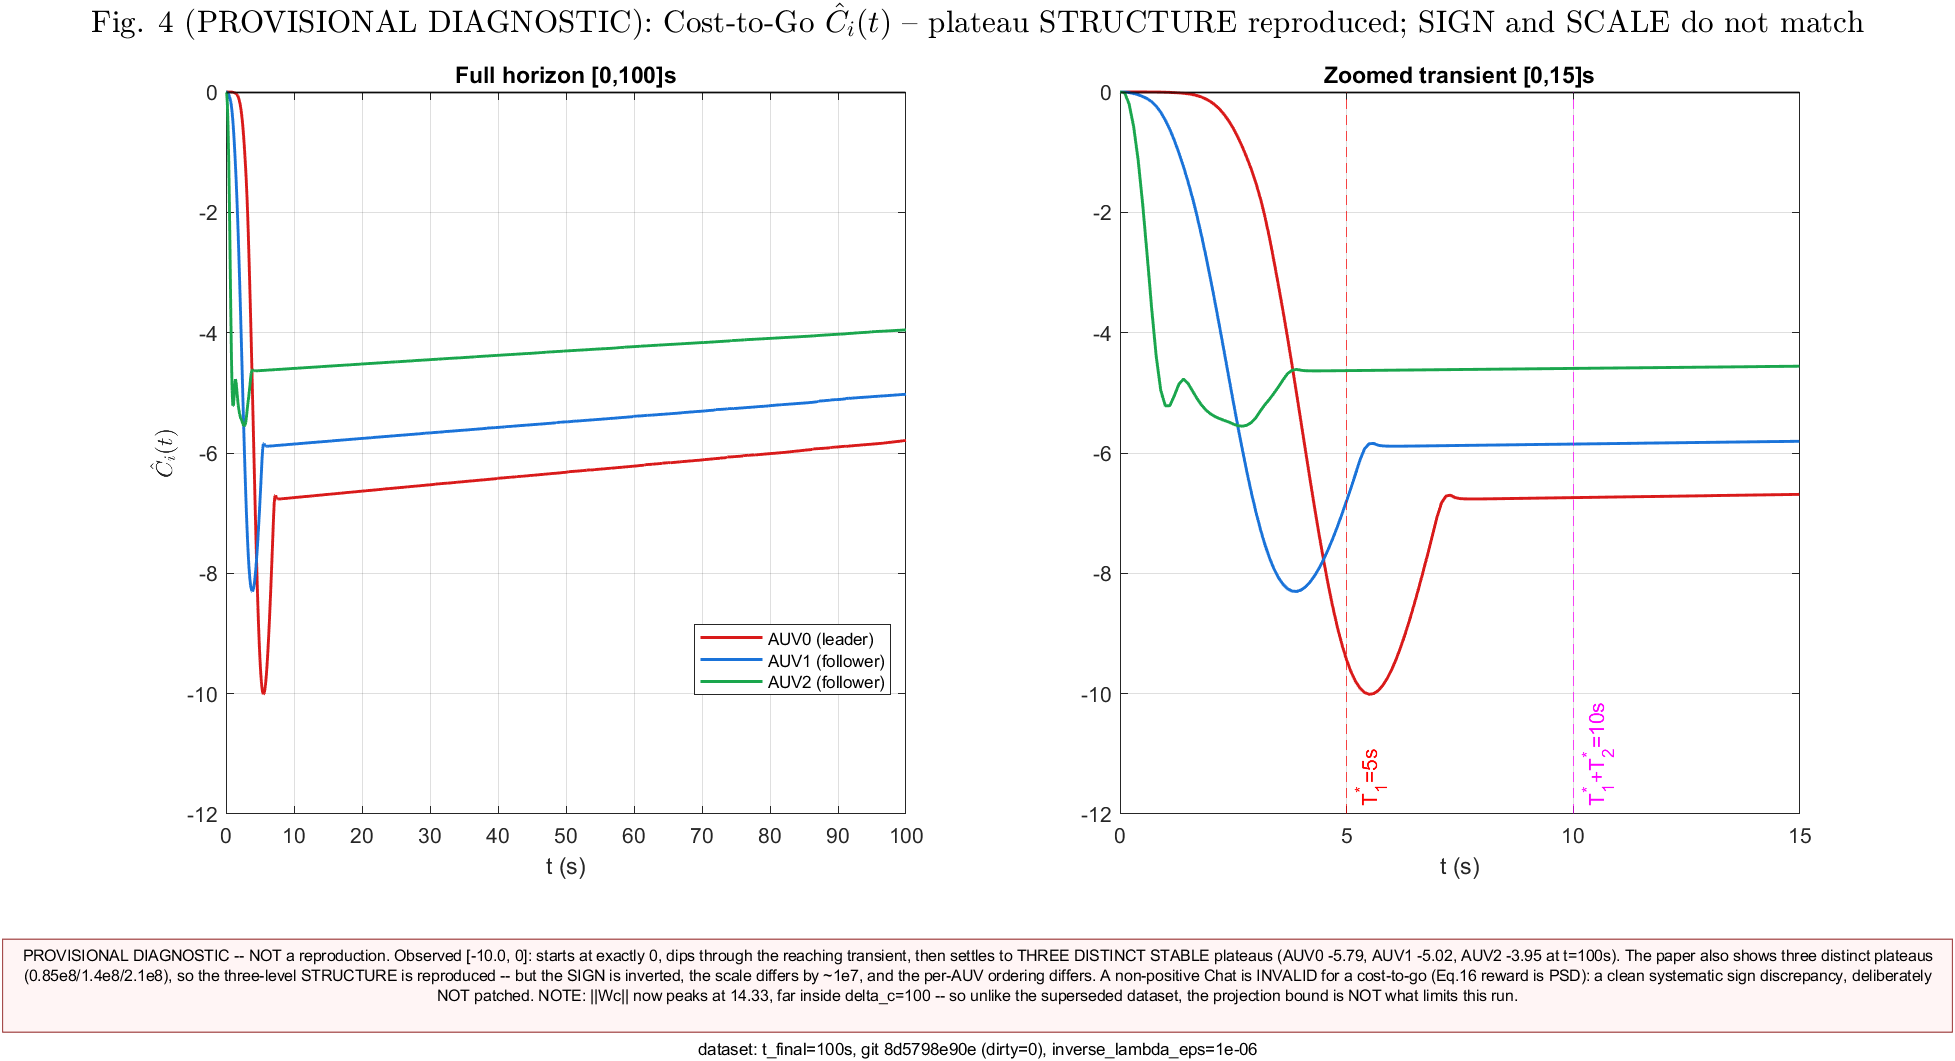
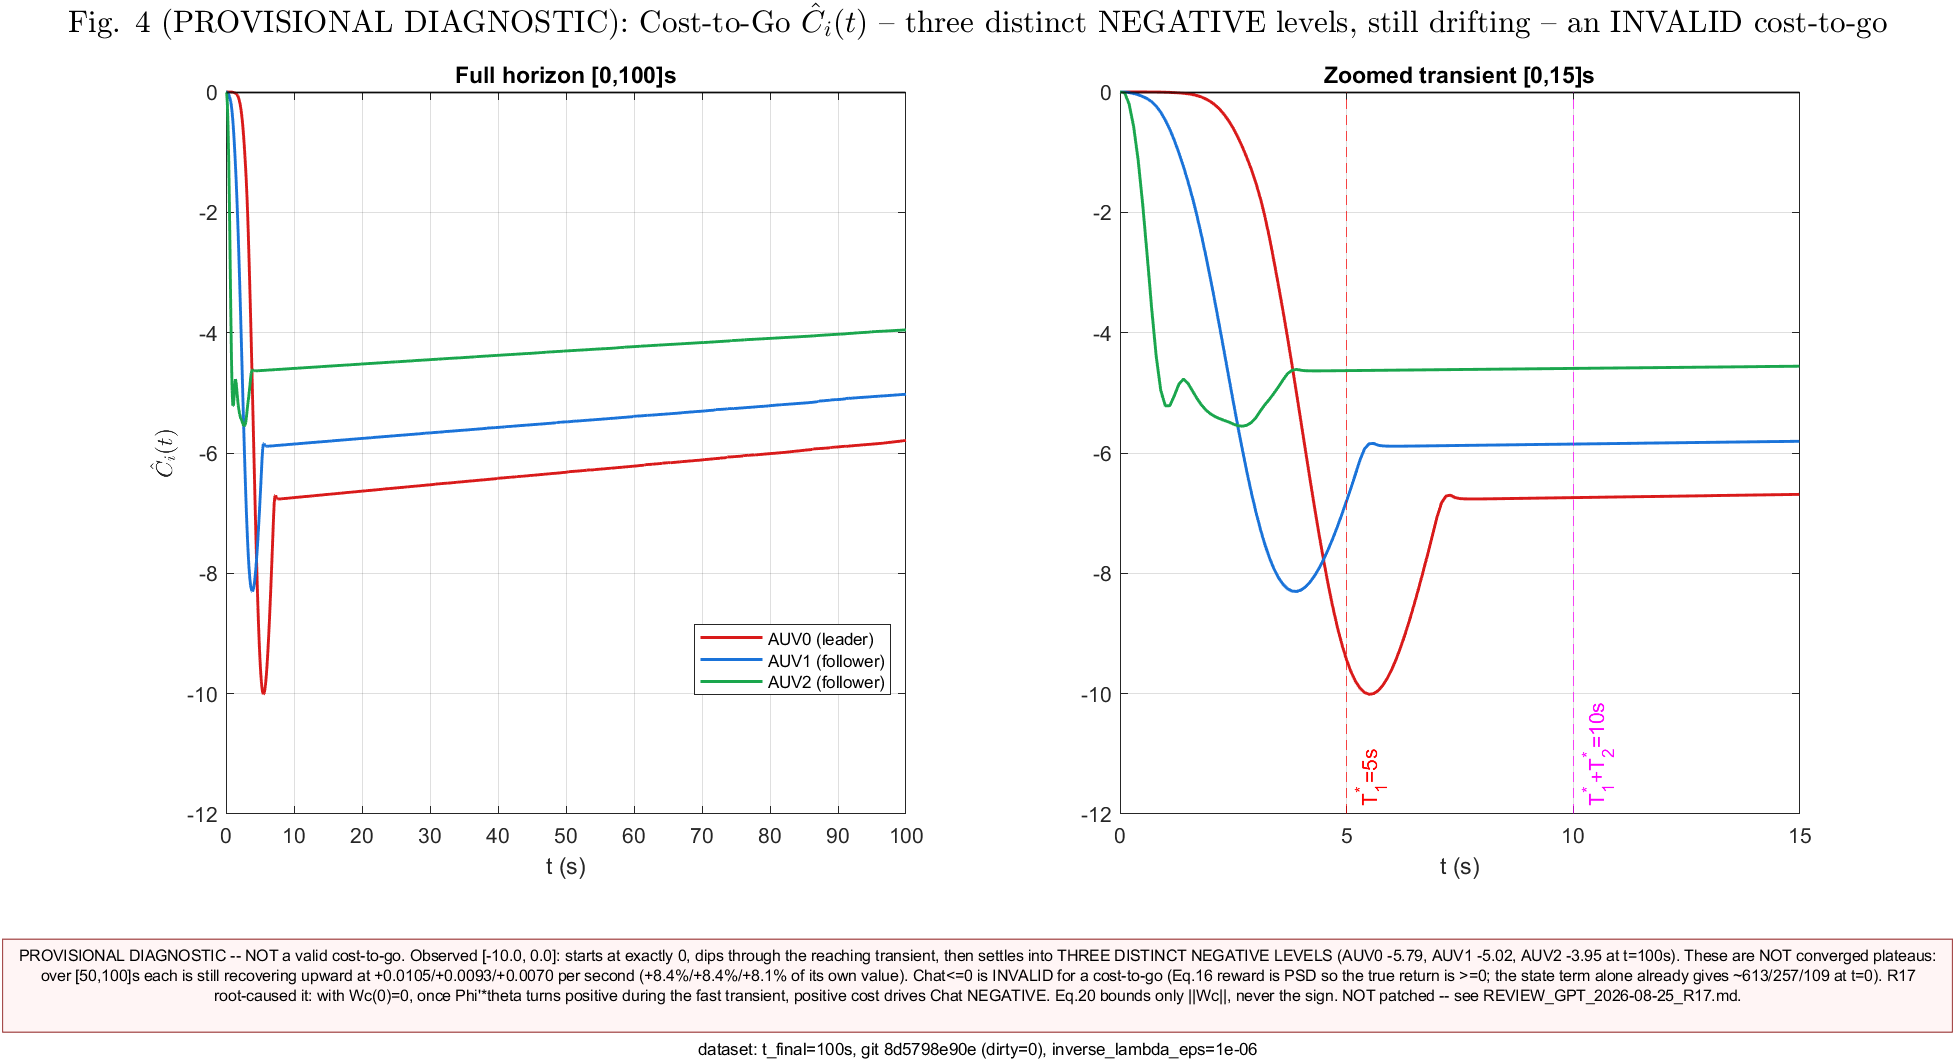
R17: correct the false 'stable plateaus' claim, add cost-to-go validity diagnostic
Two items, both requested after R17 root-caused Fig. 4's negative cost-to-go.

(1) CORRECTING A CLAIM I MADE THAT WAS WRONG. The Fig. 4 caption and header
said the curves settle to 'THREE DISTINCT, STABLE plateaus'. Measured from the
committed artifact they are still recovering upward over [50,100]s at
+0.010465 / +0.009315 / +0.006987 per second -- about +8.4% / +8.4% / +8.1% of
their own values across those 50 s. They are slowly recovering negative tails,
not converged plateaus. I had inferred stability from how flat the curves look
on a [-12,0] full-horizon axis instead of measuring the slope. My numbers
reproduce R17's exactly. The caption now COMPUTES the slope from the data, so
the claim cannot drift again if the dataset is regenerated.

The header also now carries R17's mechanism rather than just calling the sign
'a discrepancy': Phi'*theta = -||theta||^2/lambda + theta'*thetadot, and during
the fast transient the basis-motion term exceeds ||theta||^2/lambda so
Phi'*theta turns positive; with Wc(0)=0 and c_e(0)=r(0)>0 that makes
dChat/dt(0) negative, so the positive immediate cost drives Chat down. Eq.(20)
bounds only ||Wc||, never the sign, and ||Wc||=14.33 is far inside delta_c=100,
so projection is not involved.

(2) NEW DIAGNOSTIC diagnose_stepS2_cost_to_go_validity.m answers the question
the existing critic oracles never ask -- does Chat approximate the Eq.(15)
return of the trajectory actually executed? verify_step34/36/37 only check
[…]

Changed region(s): [[0.0, 0.8709, 0.9985, 0.9642], [0.0312, 0.0, 0.9673, 0.0311]]

diff --git a/paper1608/verify/diagnose_stepS2_cost_to_go_validity.m b/paper1608/verify/diagnose_stepS2_cost_to_go_validity.m
@@ -1,0 +1,153 @@
+function diagnose_stepS2_cost_to_go_validity()
+    % DIAGNOSE_STEPS2_COST_TO_GO_VALIDITY
+    % Read-only value-function validation for Fig. 4, requested by
+    % REVIEW_GPT_2026-08-25_R17.md items 1-3. Answers a question the existing
+    % critic oracles never ask: does Chat actually approximate the Eq. (15)
+    % return of the trajectory that was executed?
+    %
+    % verify_step34/36/37 only check that the critic output is finite, that
+    % the Bellman error has the right shape, and that the update equals its
+    % own algebraic expression. None of them compares Chat to anything.
+    %
+    % METHOD
+    %   Recompute, at every stored sample of the committed Phase-C run:
+    %     r(t_k)   = chi'*B*chi + tau_act'*R*tau_act        (Eq. 16, saturated
+    %                input per the supervisor determination)
+    %     Chat(t_k)= Wc(t_k)' * theta_c(chi(t_k))           (Eq. 14)
+    %   then backward-accumulate the discounted return (Eq. 15):
+    %     C_trunc(t_k) = sum_{l>=k} exp(-(t_l-t_k)/lambda) * r(t_l) * dt
+    %
+    %   Because r >= 0, truncating at T=100 s can only UNDER-estimate the true
+    %   return, so C_trunc is a strict LOWER BOUND on Eq. (15). A second
+    %   variant adds an explicit constant-r tail assumption:
+    %     C_tail(t_k) = C_trunc(t_k) + lambda * r(T) * exp(-(T-t_k)/lambda)
+    %   Both are reported; neither is presented as the exact return.
+    %
+    % HONEST LIMITS OF THIS ESTIMATE -- stated up front:
+    %   * The committed artifact stores 1003 decimated samples over 100 s
+    %     (dt ~ 0.0998 s). The reward during the sub-second reaching transient
+    %     is therefore badly under-resolved, and C_return near t=0 is
+    %     correspondingly crude. It is still far more than accurate enough to
+    %     settle a SIGN question.
+    %   * tau_act is recomputed from the stored state, not replayed from the
+    %     integrator's own per-step values, so it is the decimated-sample
+    %     reconstruction rather than the exact signal the critic saw.
+    %   * No claim is made that Chat "should" equal C_return under the paper's
+    %     theory: the paper proves weight boundedness, not value convergence.
+    %     What this script establishes is narrower and harder to dispute --
+    %     the SIGN is wrong, and by how much.
+
+    paths = project_paths();
+    cfg = nn_config();
+
+    d = load(fullfile(paths.phase_c, 'phase_c_result_t100.mat'));
+    res = d.res;
+    params = res.params;
+    sat_cfg = saturation_config();
+
+    lambda = params.lambda;
+    B = eye(6);
+    R = 1e-4 * eye(6);
+
+    N = numel(res.t);
+    t = res.t(:);
+    r = zeros(N, 3);
+    Chat = zeros(N, 3);
+
+    fprintf('=== Step S2: is Chat a valid Eq.(15) cost-to-go? ===\n\n');
+    fprintf('dataset: %s\n', fullfile(paths.phase_c, 'phase_c_result_t100.mat'));
+    fprintf('samples=%d  horizon=[%.3f, %.3f]s  mean dt=%.6fs  lambda=%.4f\n', ...
+        N, t(1), t(end), mean(diff(t)), lambda);
+    fprintf('reward mode=%s  (B=I6, R=1e-4*I6, both ASSUMED -- Issue N)\n\n', ...
+        params.critic_reward_tau_mode);
+
+    for k = 1:N
+        [eta_m, nu_m, omega_m, Wa_l, Wc_m] = unpack_states(res.X(k, :).', cfg);
+        for i = 1:3
+            eta_i = eta_m(:, i);
+            eta_dot_i = jacobian_J(eta_i) * nu_m(:, i);
+            chi_i = formation_error(eta_i, eta_dot_i, t(k), i);
+
+            tau_cmd = controller_rl(eta_i, eta_dot_i, t(k), i, omega_m(:, i), Wa_l{i}, params, cfg);
+            tau_act = sat_vector(tau_cmd, sat_cfg.tau_min, sat_cfg.tau_max);
+
+            r(k, i) = chi_i.' * B * chi_i + tau_act.' * R * tau_act;
+            Chat(k, i) = critic_output(chi_i, Wc_m(:, i), cfg);
+        end
+    end
+
+    assert(all(r(:) >= 0), 'STEP S2: r(t) went negative -- the PSD reward assumption is broken');
+
+    % Backward discounted accumulation, trapezoid on the stored grid.
+    C_trunc = zeros(N, 3);
+    for i = 1:3
+        acc = 0;
+        C_trunc(N, i) = 0;
+        for k = N-1:-1:1
+            dt = t(k+1) - t(k);
+            decay = exp(-dt / lambda);
+            % contribution of [t_k, t_k+1] plus the discounted remainder
+            acc = 0.5 * dt * (r(k, i) + decay * r(k+1, i)) + decay * acc;
+            C_trunc(k, i) = acc;
+        end
+    end
+    C_tail = C_trunc + lambda * (ones(N,1) * r(N, :)) .* exp(-(t(end) - t) / lambda);
+
+    fprintf('--- Chat vs the backward discounted return, at selected times ---\n');
+    fprintf('%8s %26s %26s %26s\n', 't (s)', 'AUV0  Chat / C_trunc', 'AUV1  Chat / C_trunc', 'AUV2  Chat / C_trunc');
+    for tt = [0 1 5 10 25 50 75 100]
+        [~, k] = min(abs(t - tt));
+        fprintf('%8.3f', t(k));
+        for i = 1:3
+            fprintf('  %11.4f /%11.4f', Chat(k, i), C_trunc(k, i));
+        end
+        fprintf('\n');
+    end
+
+    fprintf('\n--- Verdict per AUV ---\n');
+    verdict_ok = true;
+    for i = 1:3
+        n_neg = sum(Chat(:, i) < 0);
+        fprintf('AUV%d: Chat range [%.4f, %.4f]; %d/%d samples NEGATIVE (%.1f%%)\n', ...
+            i-1, min(Chat(:, i)), max(Chat(:, i)), n_neg, N, 100*n_neg/N);
+        fprintf('      C_trunc(0)=%.4f (strict LOWER bound on the true return)\n', C_trunc(1, i));
+        fprintf('      C_tail(0) =%.4f (with constant-r tail past t=100s)\n', C_tail(1, i));
+        fprintf('      Chat(0)=%.4f  =>  signed error vs lower bound = %.4f\n', ...
+            Chat(1, i), Chat(1, i) - C_trunc(1, i));
+        if min(Chat(:, i)) < 0
+            verdict_ok = false;
+        end
+    end
+
+    % Late-horizon trend: is Chat converged, or still moving?
+    fprintf('\n--- Late-horizon trend over [50,100]s (is it a plateau?) ---\n');
+    late = t >= 50;
+    for i = 1:3
+        pf = polyfit(t(late), Chat(late, i), 1);
+        k50 = find(late, 1);
+        fprintf('AUV%d: Chat 50s=%.4f -> 100s=%.4f, slope=%+.6f/s (%+.2f%% over 50s)\n', ...
+            i-1, Chat(k50, i), Chat(end, i), pf(1), ...
+            100*(Chat(end,i)-Chat(k50,i))/abs(Chat(k50,i)));
+    end
+
+    fprintf('\n=== CONCLUSION ===\n');
+    if verdict_ok
+        fprintf('Chat is non-negative throughout -- the sign defect is NOT present in this dataset.\n');
+    else
+        fprintf(['Chat is NEGATIVE over most of the run while the true Eq.(15) return is\n' ...
+                 'bounded BELOW by a large positive number. Chat therefore does not\n' ...
+                 'approximate the cost-to-go of the executed trajectory: it has the wrong\n' ...
+                 'SIGN, not merely the wrong scale. Fig. 4 must stay a provisional\n' ...
+                 'diagnostic. Root cause and the Phi''*theta mechanism: R17.\n' ...
+                 'This script does NOT propose a fix -- a positivity-preserving critic\n' ...
+                 'would be an experimental deviation from Eqs.(14)/(20) and would need\n' ...
+                 'fresh closed-loop validation, because Chat feeds actor_update.\n']);
+    end
+
+    if ~exist(paths.phase_c_work, 'dir')
+        mkdir(paths.phase_c_work);
+    end
+    out = fullfile(paths.phase_c_work, 'stepS2_cost_to_go_validity.mat');
+    save(out, 't', 'r', 'Chat', 'C_trunc', 'C_tail', 'lambda');
+    fprintf('\nSaved series to %s\n', out);
+end

diff --git a/paper1608/plots/plot_fig4_cost_to_go.m b/paper1608/plots/plot_fig4_cost_to_go.m
@@ -10,22 +10,40 @@ function fig = plot_fig4_cost_to_go(rl, manifest, params)
     % description below was rewritten against the new data rather than
     % carried over.
     %
-    % WHAT NOW MATCHES: Chat starts at exactly 0 and settles to THREE
-    % DISTINCT, STABLE plateaus -- the same three-level structure the
-    % paper's Fig. 4 shows. Under the superseded reward this curve instead
-    % swung between roughly -58 and +32 and collapsed to a single common
-    % level near +8, so the plateau structure is a genuinely new result.
+    % WHAT THE SHAPE DOES AND DOES NOT SHOW. Chat starts at exactly 0 and
+    % separates into three distinct levels -- superficially like the
+    % paper's three-plateau structure, and a real change from the
+    % superseded tau_cmd_raw dataset (which swung between about -58 and
+    % +32 and collapsed to a single common level near +8).
+    % BUT an earlier version of this header called them 'THREE DISTINCT,
+    % STABLE plateaus'. That was WRONG and is withdrawn:
+    % REVIEW_GPT_2026-08-25_R17.md measured the late-horizon trend and the
+    % curves are still recovering upward over [50,100]s at roughly
+    % +0.0105 / +0.0093 / +0.0070 per second -- about +8% of their own
+    % value across those 50 s. They are slowly recovering negative tails,
+    % NOT converged plateaus. The caption now measures this slope from the
+    % data rather than asserting stability by eye.
     %
     % WHAT STILL DOES NOT MATCH:
-    %   * SIGN. Chat is non-positive for the whole run (max exactly 0 at
-    %     t=0). The paper rises to POSITIVE plateaus. A non-positive
-    %     cost-to-go is invalid by construction -- the Eq.(16) reward
-    %     r = chi'*B*chi + tau'*R*tau is PSD, so the true value is >= 0.
-    %     This is now a clean, systematic sign discrepancy rather than the
-    %     chaotic oscillation seen before: a distinct and more diagnosable
-    %     open question. It is deliberately NOT patched here; doing so
-    %     without evidence would be exactly the symptom-patching this
-    %     project forbids.
+    %   * SIGN -- and R17 now supplies the MECHANISM. Chat is non-positive
+    %     for the whole run (max exactly 0, at t=0). The paper rises to
+    %     POSITIVE plateaus. A non-positive cost-to-go is invalid by
+    %     construction: the Eq.(16) reward chi'*B*chi + tau'*R*tau is PSD,
+    %     so the true return is >= 0 (the state term alone already gives
+    %     ~613/257/109 at t=0 for the three vehicles).
+    %     ROOT CAUSE (REVIEW_GPT_2026-08-25_R17.md, reproduced locally):
+    %     Phi'*theta = -||theta||^2/lambda + theta'*thetadot. During the
+    %     fast initial transient the basis-motion term exceeds
+    %     ||theta||^2/lambda, so Phi'*theta turns POSITIVE. With Wc(0)=0
+    %     and c_e(0)=r(0)>0, dChat/dt(0) = -lambda_c*r(0)*Phi'*theta is
+    %     then negative, so the positive immediate cost drives Chat DOWN.
+    %     Eq.(20) bounds only ||Wc||, never the sign -- and ||Wc||=14.33
+    %     here, far inside delta_c=100, so projection is not involved.
+    %     Deliberately NOT patched: negating the series, flipping Eq.(19),
+    %     or plotting abs(Chat) would hide a failed value estimate rather
+    %     than repair or explain it. See
+    %     paper1608/verify/diagnose_stepS2_cost_to_go_validity.m for the
+    %     backward-return comparison quantifying how far off it is.
     %   * SCALE. Ours plateaus at O(1); the paper at O(1e8).
     %   * PER-AUV ORDERING. Ours |Chat|: AUV0 > AUV1 > AUV2. The paper:
     %     AUV2 > AUV0 > AUV1.
@@ -65,16 +83,31 @@ function fig = plot_fig4_cost_to_go(rl, manifest, params)
     xlabel('t (s)');
     title('Zoomed transient [0,15]s');
 
-    sgtitle('Fig. 4 (PROVISIONAL DIAGNOSTIC): Cost-to-Go $\hat{C}_i(t)$ -- plateau STRUCTURE reproduced; SIGN and SCALE do not match', ...
+    sgtitle('Fig. 4 (PROVISIONAL DIAGNOSTIC): Cost-to-Go $\hat{C}_i(t)$ -- three distinct NEGATIVE levels, still drifting -- an INVALID cost-to-go', ...
         'Interpreter', 'latex');
 
     reserve_bottom_margin(fig, 0.14, 0.05);
 
-    caveat = sprintf(['PROVISIONAL DIAGNOSTIC -- NOT a reproduction. Observed [%.1f, 0]: starts at exactly 0, dips through the reaching transient, then settles to THREE DISTINCT STABLE plateaus (AUV0 %.2f, AUV1 %.2f, AUV2 %.2f at t=100s). ' ...
-        'The paper also shows three distinct plateaus (0.85e8/1.4e8/2.1e8), so the three-level STRUCTURE is reproduced -- but the SIGN is inverted, the scale differs by ~1e7, and the per-AUV ordering differs. ' ...
-        'A non-positive Chat is INVALID for a cost-to-go (Eq.16 reward is PSD): a clean systematic sign discrepancy, deliberately NOT patched. ' ...
-        'NOTE: ||Wc|| now peaks at %.2f, far inside delta_c=%.0f -- so unlike the superseded dataset, the projection bound is NOT what limits this run.'], ...
-        min(rl.Chat(:)), rl.Chat(end,1), rl.Chat(end,2), rl.Chat(end,3), max(rl.Wc_norm(:)), nn_config().delta_c);
+    % Measure the late-horizon trend instead of asserting it. An earlier
+    % caption called these 'THREE DISTINCT, STABLE plateaus'; R17 showed
+    % that is not supported by the data -- each curve is still recovering
+    % upward at ~+0.007..+0.010 /s over [50,100]s (~8% of its own value).
+    % Reading the slope from the data keeps the wording honest if the
+    % dataset is ever regenerated.
+    late = rl.t >= 50;
+    slopes = zeros(1,3);
+    for q = 1:3
+        pf = polyfit(rl.t(late), rl.Chat(late, q), 1);
+        slopes(q) = pf(1);
+    end
+    pct = 100 * (rl.Chat(end,:) - rl.Chat(find(late,1),:)) ./ abs(rl.Chat(find(late,1),:));
+
+    caveat = sprintf(['PROVISIONAL DIAGNOSTIC -- NOT a valid cost-to-go. Observed [%.1f, %.1f]: starts at exactly 0, dips through the reaching transient, then settles into THREE DISTINCT NEGATIVE LEVELS (AUV0 %.2f, AUV1 %.2f, AUV2 %.2f at t=100s). ' ...
+        'These are NOT converged plateaus: over [50,100]s each is still recovering upward at %+.4f/%+.4f/%+.4f per second (%+.1f%%/%+.1f%%/%+.1f%% of its own value). ' ...
+        'Chat<=0 is INVALID for a cost-to-go (Eq.16 reward is PSD so the true return is >=0; the state term alone already gives ~613/257/109 at t=0). ' ...
+        'R17 root-caused it: with Wc(0)=0, once Phi''*theta turns positive during the fast transient, positive cost drives Chat NEGATIVE. Eq.20 bounds only ||Wc||, never the sign. NOT patched -- see REVIEW_GPT_2026-08-25_R17.md.'], ...
+        min(rl.Chat(:)), max(rl.Chat(:)), rl.Chat(end,1), rl.Chat(end,2), rl.Chat(end,3), ...
+        slopes(1), slopes(2), slopes(3), pct(1), pct(2), pct(3));
     annotation('textbox', [0.02 0.030 0.96 0.085], 'String', caveat, ...
         'EdgeColor', [0.6 0.2 0.2], 'FontSize', 7.5, 'HorizontalAlignment', 'center', ...
         'Interpreter', 'none', 'BackgroundColor', [1 0.96 0.96], 'FitBoxToText', 'off');

diff --git a/docs/HANDOFF.md b/docs/HANDOFF.md
@@ -601,6 +601,29 @@ A non-positive $\hat C$ remains **invalid** for a cost-to-go, since the Eq. (16)
 
 **Verification status after the change:** fast oracle suite re-run under the new default — **49 passed, 0 failed, 12 deferred** (after R16 moved verify_step44 and verify_step49 into the CI-verified fast block and added verify_step53). `verify_step35b`'s misleading "tau_cmd cost path verified" print was corrected; that oracle is mode-agnostic and asserts both cost paths plus the $r_{\text{cmd}}>r_{\text{act}}$ inequality, so it did not need a logic change.
 
+### R17 — Fig. 4's negative cost-to-go: ROOT-CAUSED, not patched
+
+GPT's R17 review (`paper1608/docs/REVIEW_GPT_2026-08-25_R17.md`) traced the negative $\hat C$ to a specific mechanism, and independently reproducing it confirmed two things — including that a claim I had written was wrong.
+
+**Mechanism.** $\Phi^T\theta = -\|\theta\|^2/\lambda + \theta^T\dot\theta$. During the fast initial reaching transient the basis-motion term $\theta^T\dot\theta$ exceeds $\|\theta\|^2/\lambda$, so $\Phi^T\theta$ turns POSITIVE. With $\hat w_c(0)=0$ we have $\hat C(0)=0$ and $c_e(0)=r(0)>0$, so $\dot{\hat C}(0) = -\lambda_c r(0)\,\Phi^T\theta(0)$ goes negative — the positive immediate cost drives the estimate DOWN. Eq. (20) bounds only $\|\hat w_c\|$, never the sign, and $\|\hat w_c\|=14.33$ here is far inside $\delta_c=100$, so the projection is not involved. The implementation of Eqs. (17)–(19) is paper-literal; being paper-literal simply does not guarantee a valid non-negative value function.
+
+**A wording error of mine, corrected.** The Fig. 4 caption and header said the curves settle to "THREE DISTINCT, STABLE plateaus". Measured from the committed artifact, they are still recovering upward over $[50,100]$s at $+0.010465$, $+0.009315$, $+0.006987$ per second — about $+8.4\%$, $+8.4\%$, $+8.1\%$ of their own values across those 50 s. They are **slowly recovering negative tails, not converged plateaus**. I had inferred stability from how flat the full-horizon plot looks on a $[-12,0]$ axis instead of measuring the slope. The caption now computes the slope from the data so the claim cannot drift again.
+
+**New diagnostic** `paper1608/verify/diagnose_stepS2_cost_to_go_validity.m` (log: `artifacts/phase-c/phase_c_s2_cost_to_go_validity_console.txt`) answers the question the existing critic oracles never asked — does $\hat C$ approximate the Eq. (15) return of the trajectory actually executed? It backward-accumulates the discounted reward on the committed run:
+
+| AUV | $\hat C(0)$ | $C_{\text{trunc}}(0)$ (strict lower bound) | signed error | samples negative |
+|---|---|---|---|---|
+| 0 | $0.0000$ | $636.99$ | $-636.99$ | 1002/1003 (99.9%) |
+| 1 | $0.0000$ | $271.84$ | $-271.84$ | 1002/1003 (99.9%) |
+| 2 | $0.0000$ | $125.91$ | $-125.91$ | 1002/1003 (99.9%) |
+
+Because $r\ge0$, truncating at $T=100$s can only UNDER-estimate the true return, so $C_{\text{trunc}}$ is a strict lower bound; adding a constant-$r$ tail changes it by $<10^{-4}$. These corroborate R17's independent state-only bound ($612.7/256.9/109.1$) — mine are slightly larger because they also include the $\tau^TR\tau$ term R17 deliberately omitted. **So $\hat C$ has the wrong SIGN, not merely the wrong scale.**
+
+**Deliberately NOT patched.** Negating the series, flipping Eq. (19)'s sign, or plotting $|\hat C|$ would hide a failed value estimate rather than repair or explain it. A positivity-preserving critic (non-negative weights, or a softplus output map) would be an *experimental deviation* from Eqs. (14)/(20), not a reproduction — and it would need fresh closed-loop validation, because $\hat C$ feeds `actor_update` through $\tanh(\hat w_a^T\theta_a + c^0_a\hat C)$ and therefore changes the physical trajectory.
+
+**Still open from R17, needing input this project cannot supply itself**: the paper reports no numeric $B$, $R$, $m_c$, critic centres, $\hat w_c(0)$, or $\delta_c$, and its Fig. 4 caption does not say whether it plots Eq. (15)'s future return, the online estimate $\hat C$, or a forward cumulative past cost. A monotone rise from zero is characteristic of the last of those, which would be a different quantity entirely. Author/supervisor clarification is required.
+
+
 ### Post-R11 full-project audit — findings
 
 A fresh full-project pass (not a re-run of R8–R11's scope) after the physical figures were accepted. Everything below was verified against code/data before being recorded.
